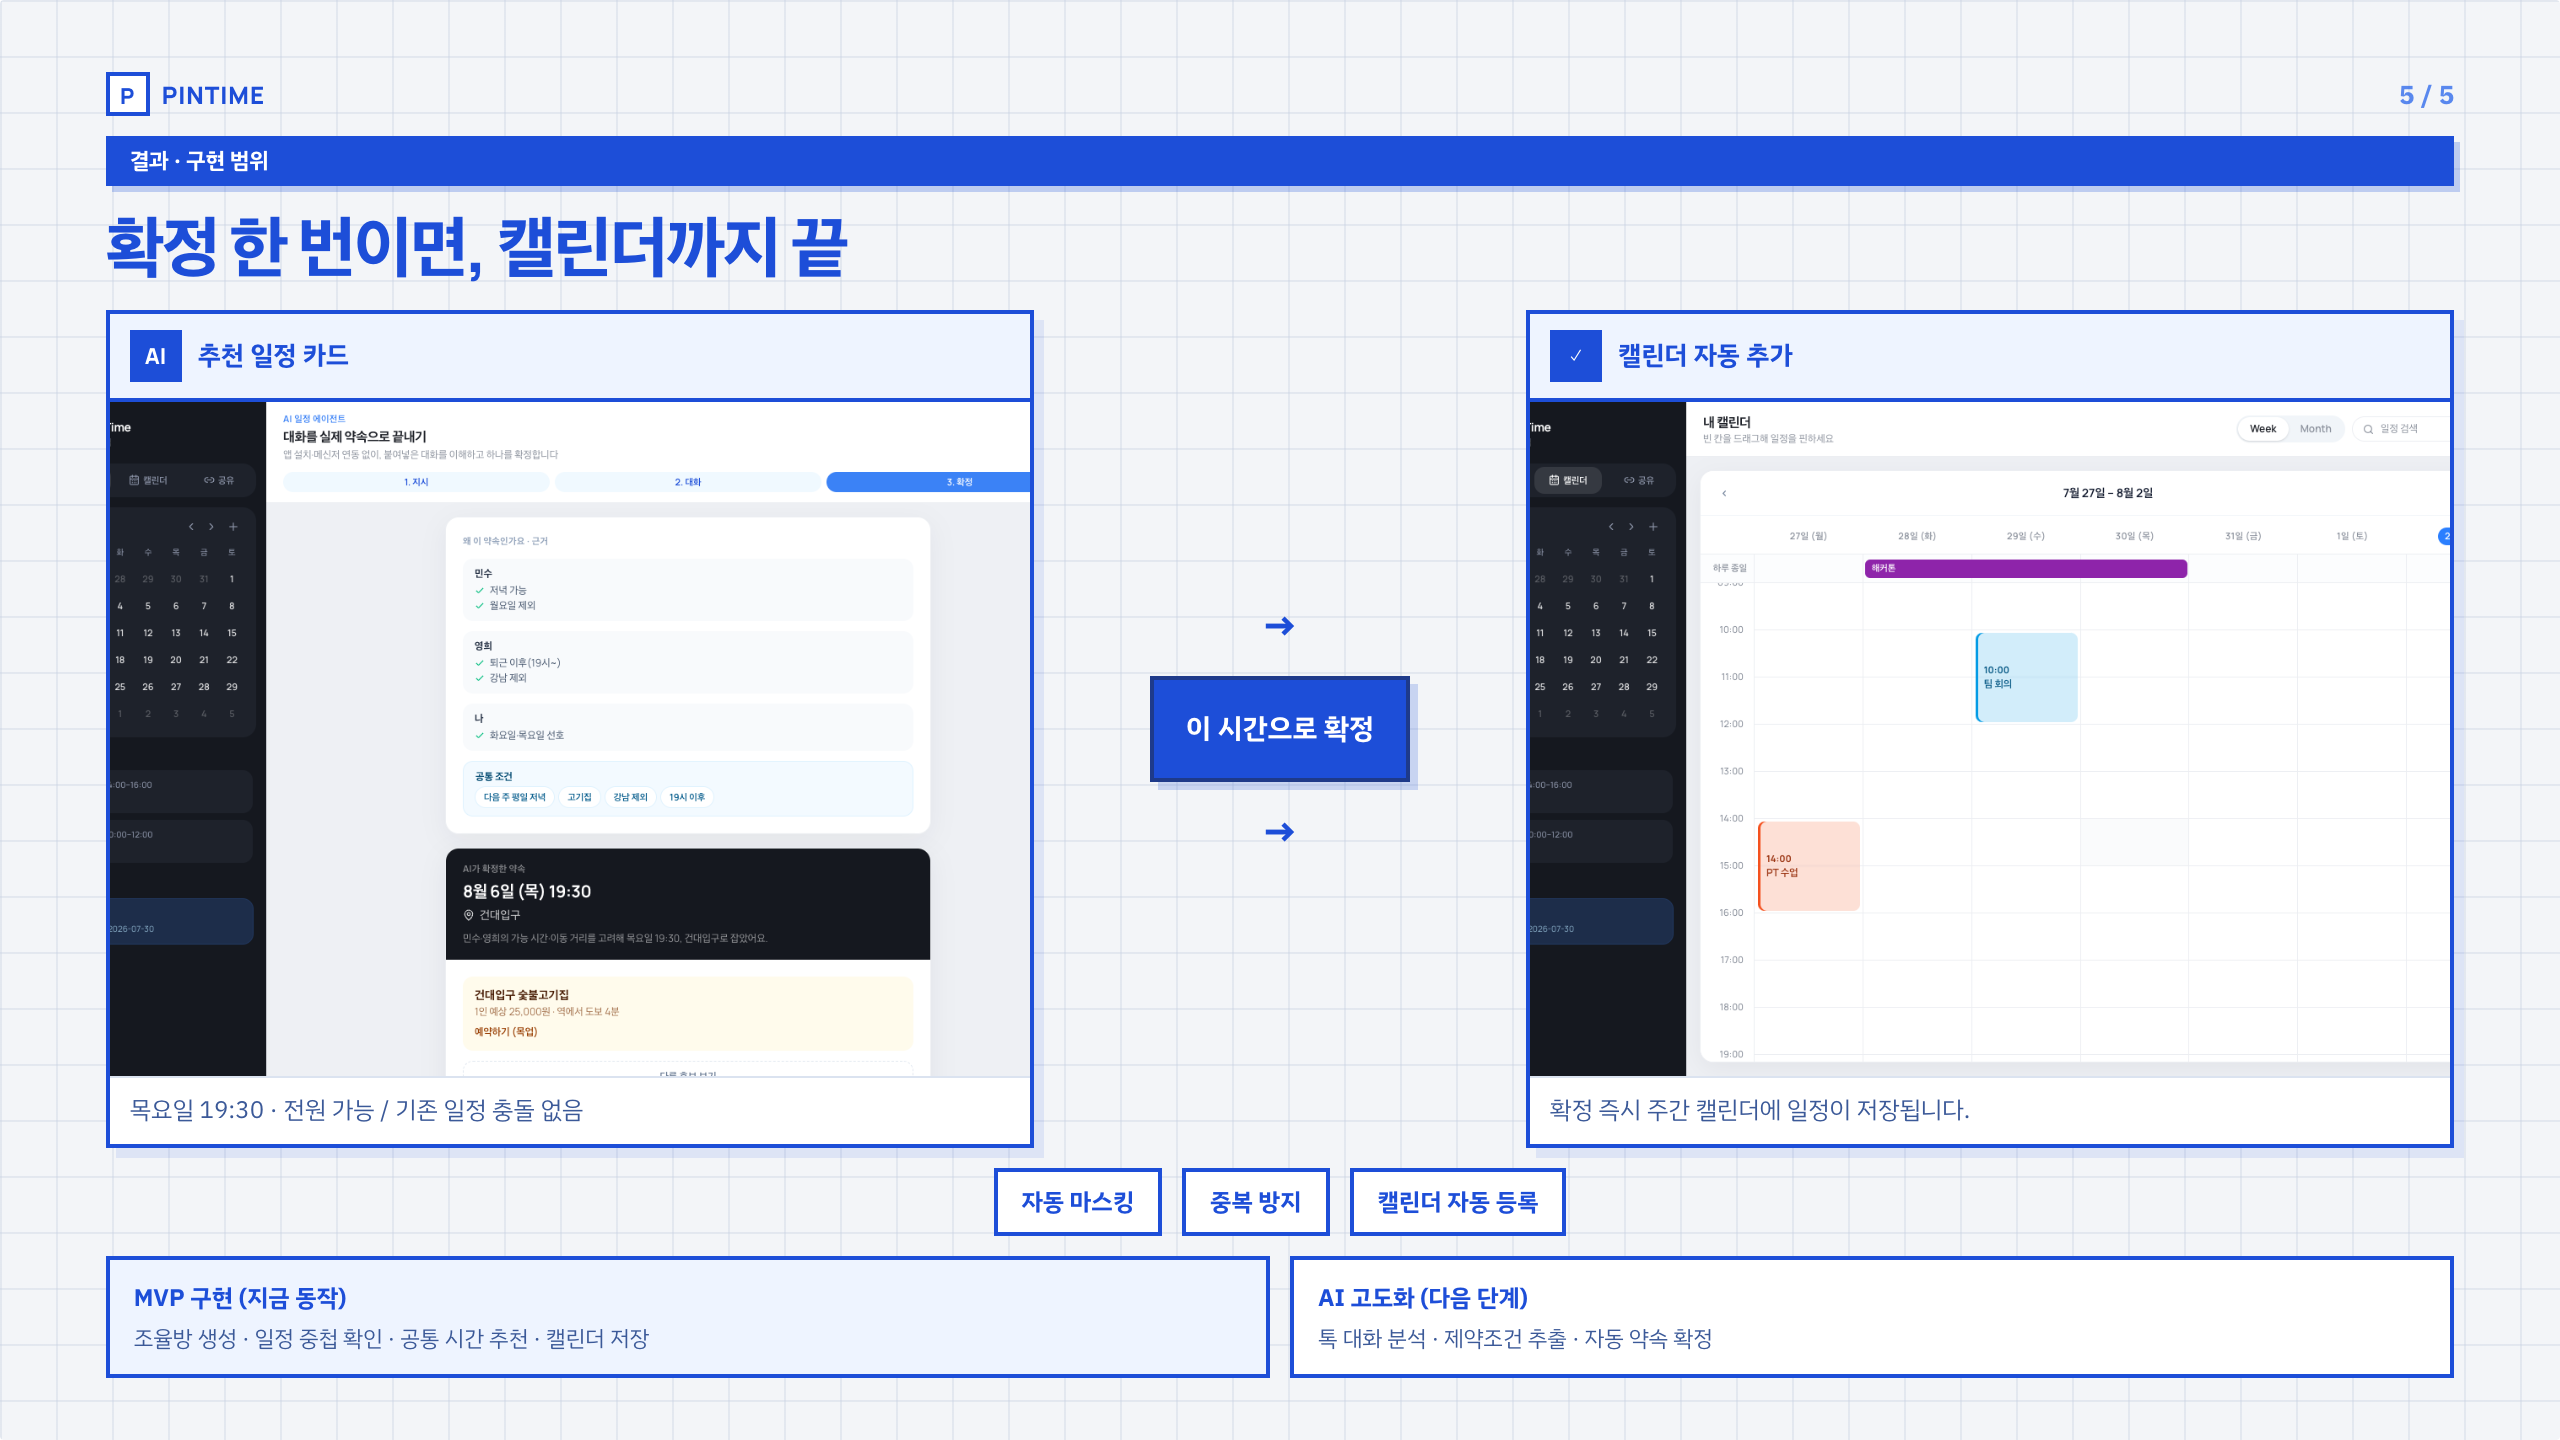
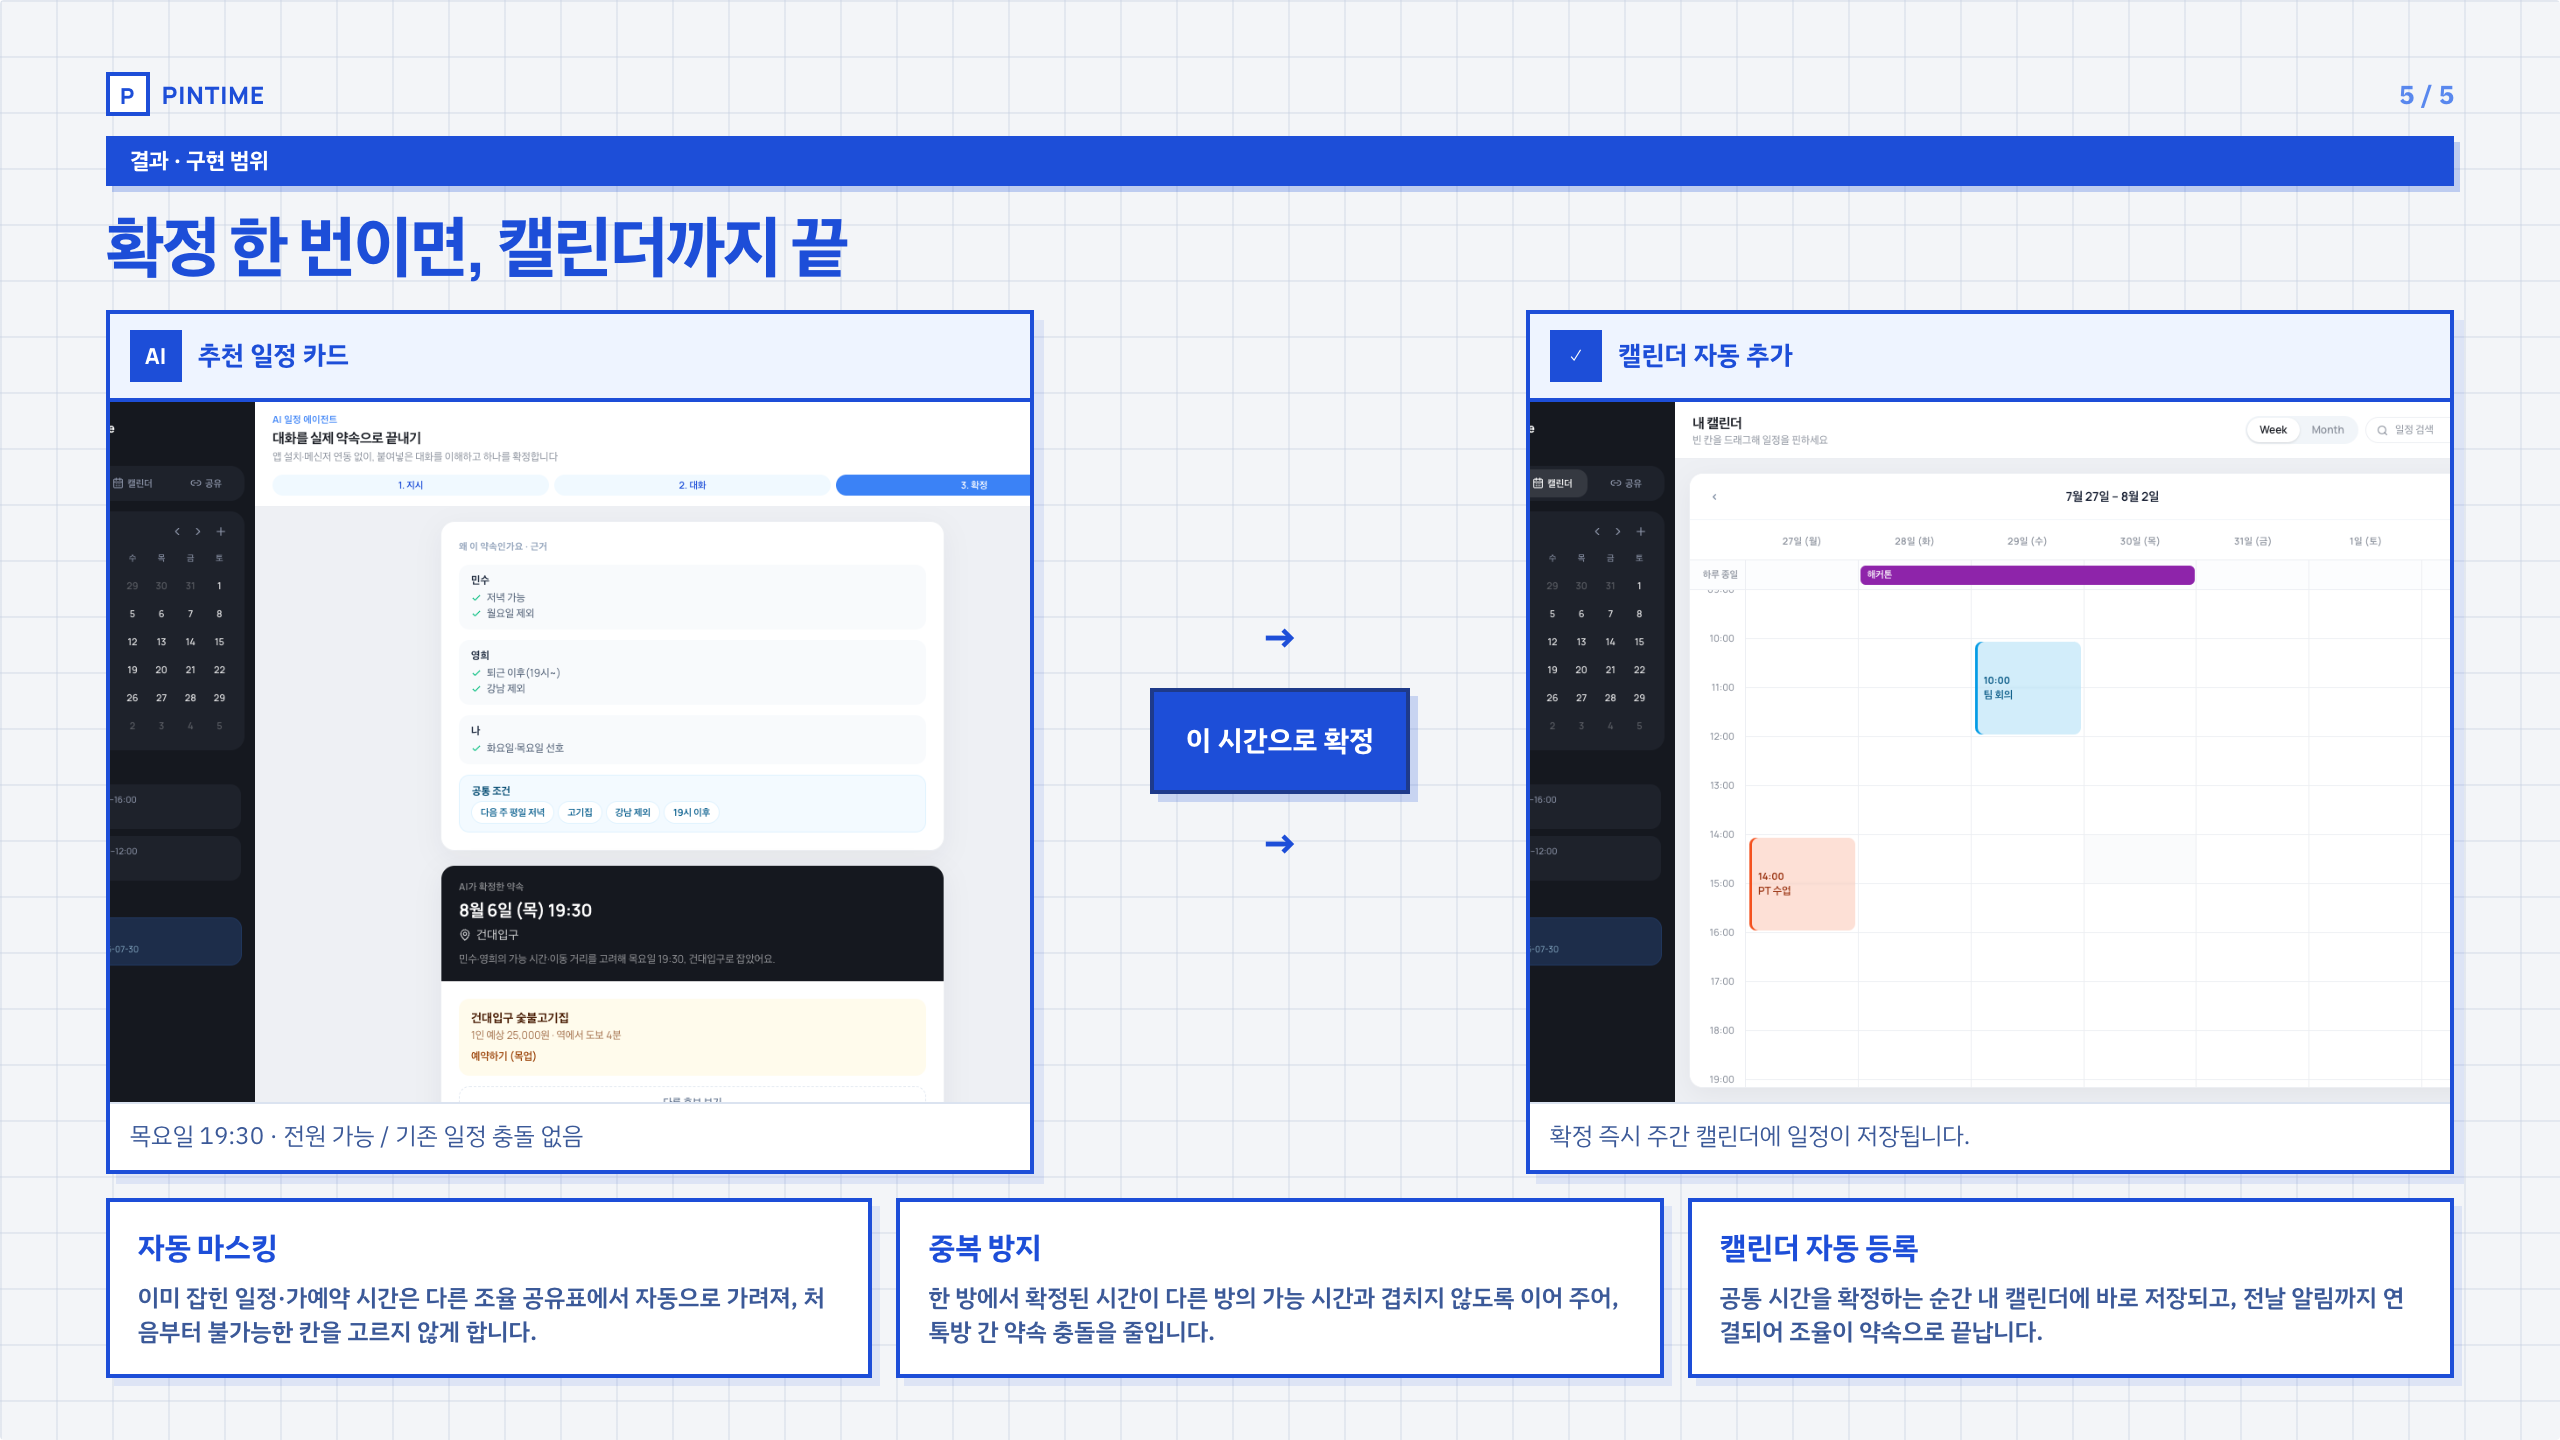
Replace MVP/AI scope boxes with expanded outcome features on slide 5.

diff --git a/public/pitch.html b/public/pitch.html
@@ -662,43 +662,31 @@
         border: 2px solid #1e3a8a;
       }
       .pill-row {
-        display: flex;
-        justify-content: center;
-        gap: 10px;
-        margin-top: 10px;
-        flex-wrap: wrap;
-      }
-      .pill-row span {
-        background: #fff;
-        border: 2px solid var(--blue);
-        padding: 6px 12px;
-        font-size: 12px;
-        font-weight: 700;
-        color: var(--blue);
-      }
-      .scope-row {
         display: grid;
-        grid-template-columns: 1fr 1fr;
-        gap: 10px;
-        margin-top: 10px;
+        grid-template-columns: repeat(3, 1fr);
+        gap: 12px;
+        margin-top: 12px;
       }
-      .scope-row .box {
-        padding: 10px 12px;
-        border: 2px solid var(--blue);
+      .pill-row .feat {
         background: #fff;
+        border: 2.5px solid var(--blue);
+        box-shadow: 4px 4px 0 rgba(29, 78, 216, 0.1);
+        padding: 12px 14px;
+        min-height: 0;
       }
-      .scope-row .box.mvp { background: #eef4ff; }
-      .scope-row .box h4 {
-        margin: 0 0 4px;
-        font-size: 12px;
+      .pill-row .feat h4 {
+        margin: 0 0 6px;
+        font-size: 15px;
         font-weight: 800;
         color: var(--blue);
+        font-family: Manrope, 'IBM Plex Sans KR', sans-serif;
       }
-      .scope-row .box p {
+      .pill-row .feat p {
         margin: 0;
-        font-size: 11px;
-        line-height: 1.4;
+        font-size: 12px;
+        line-height: 1.45;
         color: var(--muted-solid);
+        font-weight: 600;
       }
 
       .note-box {
@@ -2207,19 +2195,26 @@
           </div>
 
           <div class="pill-row">
-            <span>자동 마스킹</span>
-            <span>중복 방지</span>
-            <span>캘린더 자동 등록</span>
-          </div>
-
-          <div class="scope-row">
-            <div class="box mvp">
-              <h4>MVP 구현 (지금 동작)</h4>
-              <p>조율방 생성 · 일정 중첩 확인 · 공통 시간 추천 · 캘린더 저장</p>
+            <div class="feat">
+              <h4>자동 마스킹</h4>
+              <p>
+                이미 잡힌 일정·가예약 시간은 다른 조율 공유표에서 자동으로
+                가려져, 처음부터 불가능한 칸을 고르지 않게 합니다.
+              </p>
             </div>
-            <div class="box">
-              <h4>AI 고도화 (다음 단계)</h4>
-              <p>톡 대화 분석 · 제약조건 추출 · 자동 약속 확정</p>
+            <div class="feat">
+              <h4>중복 방지</h4>
+              <p>
+                한 방에서 확정된 시간이 다른 방의 가능 시간과 겹치지 않도록
+                이어 주어, 톡방 간 약속 충돌을 줄입니다.
+              </p>
+            </div>
+            <div class="feat">
+              <h4>캘린더 자동 등록</h4>
+              <p>
+                공통 시간을 확정하는 순간 내 캘린더에 바로 저장되고, 전날
+                알림까지 연결되어 조율이 약속으로 끝납니다.
+              </p>
             </div>
           </div>
         </div>

diff --git a/README.md b/README.md
@@ -32,7 +32,7 @@ HTML 소개서: [`public/pitch.html`](./public/pitch.html)
 
 ### 5. 확정과 캘린더 등록
 
-추천 일정을 확정하면 주간 캘린더에 바로 저장됩니다. 자동 마스킹·중복 방지·캘린더 등록까지 한 번에 끝납니다.
+확정 한 번이면 캘린더까지 끝. **자동 마스킹 · 중복 방지 · 캘린더 자동 등록**을 중심으로 결과가 이어집니다.
 
 ![5. 확정 한 번이면 캘린더까지](./public/pitch-export/05-impact.png)
 
